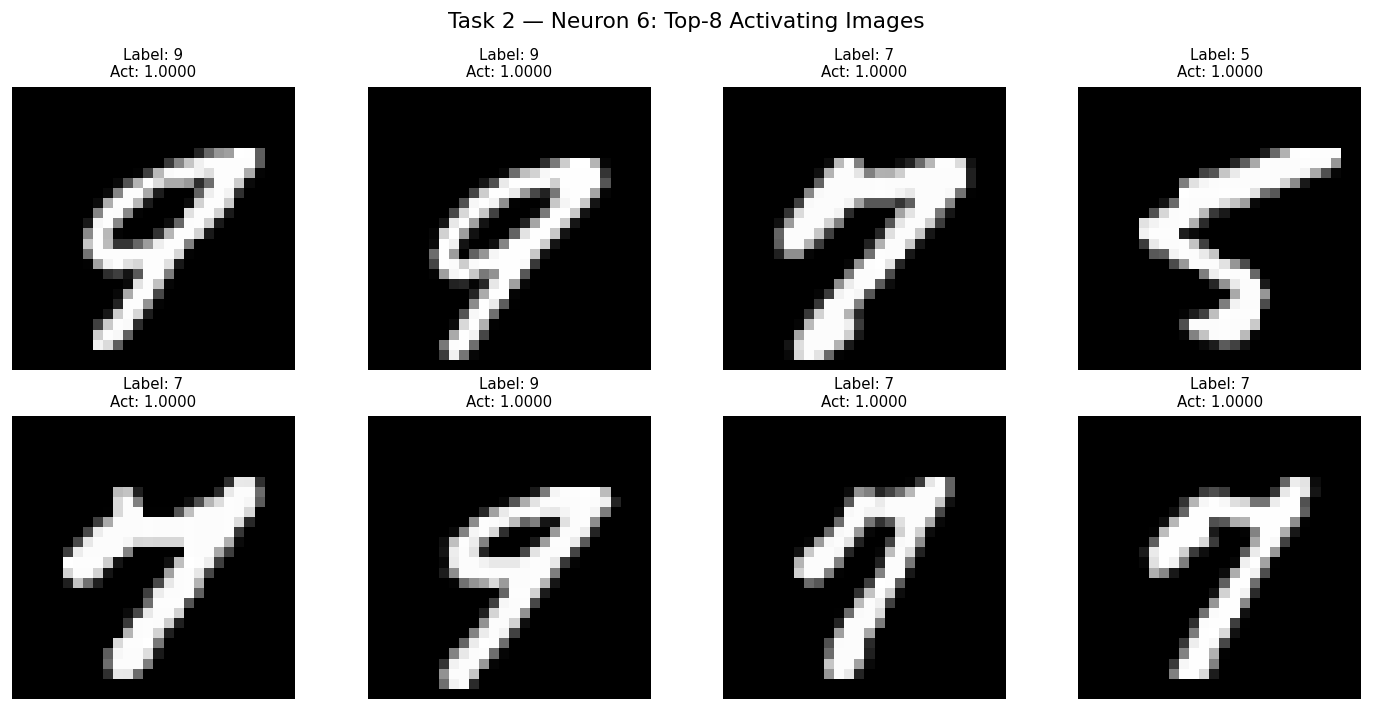
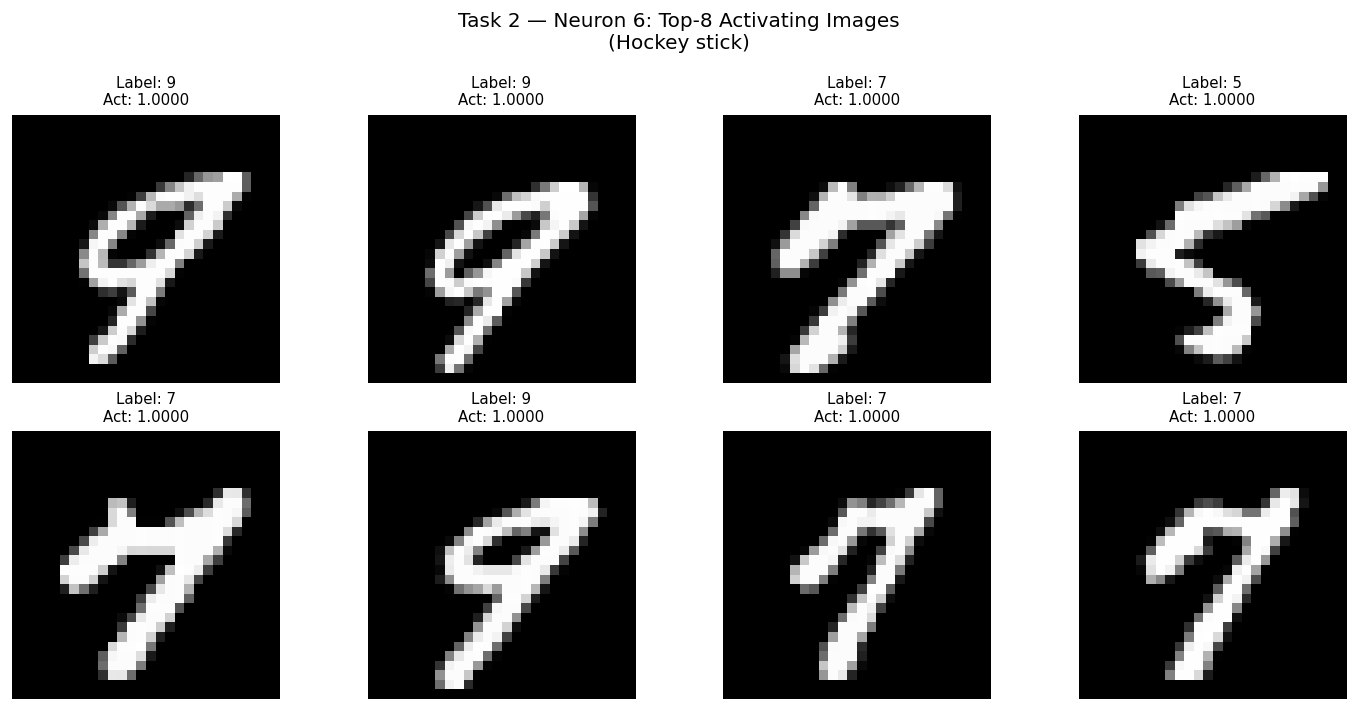
final changes

diff --git a/GRP11_2022A8PS0595G_2022A8PS0066G.py b/GRP11_2022A8PS0595G_2022A8PS0066G.py
@@ -1,23 +1,23 @@
 """
-GRP11_2022A8PS0595G.py
-══════════════════════════════════════════════════════════════════════
+GRP11_2022A8PS0595G_2022A8PS0066G.py
 Assignment 1 — Understanding Hidden Layer Representations (MNIST)
 BITS F312 Neural Networks
 
 Architecture : [784 → 20 → 10]
-Trained with : SGD, 30 epochs, mini-batch=10, eta=3.0
-Model loaded from: model.json (no retraining)
+Trained with stochastic gradient descent (SGD) -  30 epochs, mini-batch=10, eta=3.0
+Model loaded from: GRP11_2022A8PS0595G_2022A8PS0066G.json (no retraining)
 
-Usage:
-    python GRP11_2022A8PS0595G.py
 
-Requires in the same directory:
-    mnist_loader.py
-    model.json
+First get these files in the same folder (pre-requisites)
+    mnist_loader.py - (from NN deep learning repo)
+    GRP11_2022A8PS0595G_2022A8PS0066G.json      - (pretrained model weights)
     train-images.idx3-ubyte
     train-labels.idx1-ubyte
     t10k-images.idx3-ubyte
     t10k-labels.idx1-ubyte
+
+then run 
+python GRP11_2022A8PS0595G_2022A8PS0066G.py
 """
 
 import json
@@ -27,45 +27,39 @@ matplotlib.use('Agg')
 import matplotlib.pyplot as plt
 import mnist_loader
 
-# ══════════════════════════════════════════════════════════════════════
-# ▶▶  SET YOUR FAVORITE NEURON HERE (1 to 20)
-FAVORITE_NEURON = 14        # ← change this to whichever neuron you like
-# ══════════════════════════════════════════════════════════════════════
+favourite_nueron = 6       
 
-# Informal names for all 20 neurons (based on Task 1 + Task 2 analysis)
+
 NEURON_NAMES = {
-    1:  "Curved multi-stroke detector",
-    2:  "Vertical stroke detector",
-    3:  "Open arc / tall shape detector",
-    4:  "Closed oval loop detector",
-    5:  "Cross-junction detector",
-    6:  "Diagonal slash detector",
-    7:  "Round loop detector",
-    8:  "S-curve / swirl detector",
-    9:  "Seven detector (variant A)",
-    10: "Round + looping shape detector",
-    11: "Two detector",
-    12: "Double-arc detector",
-    13: "Bottom-loop + sweep detector",
-    14: "Seven detector (variant B)",
-    15: "Broad mixed-stroke detector",
-    16: "Closed oval detector",
-    17: "S/Z-shape detector",
-    18: "Six detector",
-    19: "Five detector",
-    20: "Slanted multi-curve detector",
+    1:  "Left legged",
+    2:  "Central line",
+    3:  "Bindhi",
+    4:  "Donut",
+    5:  "Square",
+    6:  "Hockey stick",
+    7:  "Thick donut",
+    8:  "Scramble",
+    9:  "Grandpa stick",
+    10: "Right legged",
+    11: "Captain Hook",
+    12: "The E",
+    13: "Hangman noose",
+    14: "Stroked 7",
+    15: "Equator",
+    16: "Black hole",
+    17: "Scrambled",
+    18: "Bottom loop",
+    19: "Seahorse",
+    20: "The Sun",
 }
 
 
-# ══════════════════════════════════════════════════════════════════════
-# Utilities
-# ══════════════════════════════════════════════════════════════════════
 
 def sigmoid(z):
     return 1.0 / (1.0 + np.exp(-z))
 
 
-def load_model(json_path="model.json"):
+def load_model(json_path="GRP11_2022A8PS0595G_2022A8PS0066G.json"):
     with open(json_path, "r") as f:
         model = json.load(f)
     weights = [np.array(w) for w in model["weights"]]
@@ -74,7 +68,6 @@ def load_model(json_path="model.json"):
 
 
 def get_hidden_activations(test_data, W1, b1):
-    """Returns activations (N,20), labels (N,), images list."""
     activations, labels, images = [], [], []
     for x, y in test_data:
         z1 = W1 @ x + b1
@@ -85,16 +78,13 @@ def get_hidden_activations(test_data, W1, b1):
     return np.array(activations), np.array(labels), images
 
 
-# ══════════════════════════════════════════════════════════════════════
-# Task 1 — Weight heatmaps
-# ══════════════════════════════════════════════════════════════════════
+# TASK 1 - Visualise each hidden neurons weight in HeatMap.
 
 class Task1:
-    """Visualise each hidden neuron's 784 weights as a 28×28 heatmap."""
+ 
 
     @staticmethod
     def run_all(W1, save_path="task1_heatmaps.png"):
-        """Plot all 20 neurons in a 4×5 grid and save."""
         fig, axes = plt.subplots(4, 5, figsize=(14, 11))
         fig.suptitle("Task 1 — Hidden Neuron Weight Heatmaps\n"
                      "(Red = excitatory, Blue = inhibitory)", fontsize=14, y=1.01)
@@ -112,8 +102,7 @@ class Task1:
 
     @staticmethod
     def run_single(W1, neuron_idx, save_path=None):
-        """Plot heatmap for one neuron (0-indexed internally)."""
-        j    = neuron_idx - 1           # convert 1-indexed → 0-indexed
+        j    = neuron_idx - 1           # change  1-indexed → 0-indexed if needed
         w_j  = W1[j].reshape(28, 28)
         vmax = np.max(np.abs(w_j))
 
@@ -131,22 +120,18 @@ class Task1:
         print(f"  [Task 1] Saved: {path}")
 
 
-# ══════════════════════════════════════════════════════════════════════
-# Task 2 — Top-8 activating images
-# ══════════════════════════════════════════════════════════════════════
+
+# Task 2 — Top-8 activating images.
 
 class Task2:
-    """Find and display the 8 images that most strongly activate each neuron."""
 
     @staticmethod
     def run_all(activations, labels, images):
-        """Save one 2×4 grid per neuron (20 files total)."""
         for j in range(activations.shape[1]):
             Task2._plot_neuron(j + 1, activations, labels, images)
 
     @staticmethod
     def run_single(neuron_idx, activations, labels, images, save_path=None):
-        """Plot top-8 grid for one neuron."""
         Task2._plot_neuron(neuron_idx, activations, labels, images, save_path)
 
     @staticmethod
@@ -174,16 +159,12 @@ class Task2:
         print(f"  [Task 2] Saved: {path}")
 
 
-# ══════════════════════════════════════════════════════════════════════
-# Task 3 — Activation distribution per digit class
-# ══════════════════════════════════════════════════════════════════════
+# Task 3 — Activation distribution per digit class.
 
 class Task3:
-    """Bar chart of average neuron activation for each digit class 0–9."""
 
     @staticmethod
     def run_all(activations, labels, save_path="task3_activation_distribution.png"):
-        """Save combined 4×5 figure for all 20 neurons."""
         digits = np.arange(10)
         fig, axes = plt.subplots(4, 5, figsize=(18, 13))
         fig.suptitle("Task 3 — Average Hidden Neuron Activation per Digit Class",
@@ -213,7 +194,6 @@ class Task3:
 
     @staticmethod
     def run_single(neuron_idx, activations, labels, save_path=None):
-        """Bar chart for one neuron."""
         j      = neuron_idx - 1
         digits = np.arange(10)
         avg    = np.array([activations[labels == d, j].mean() for d in digits])
@@ -241,44 +221,34 @@ class Task3:
         plt.close()
         print(f"  [Task 3] Saved: {path}")
 
+# main() — runs ONLY the favorite neuron. Our selected nueron is 6
 
-# ══════════════════════════════════════════════════════════════════════
-# main() — runs ONLY the favorite neuron, completes in < 10 seconds
-# ══════════════════════════════════════════════════════════════════════
 
 def main():
-    n = FAVORITE_NEURON
+    n = favourite_nueron
     print(f"\n{'='*55}")
     print(f"  Favorite Neuron : {n}  —  {NEURON_NAMES[n]}")
     print(f"{'='*55}\n")
 
-    # 1. Load model (no retraining)
-    print("Loading model from model.json ...")
-    weights, biases = load_model("model.json")
-    W1, W2 = weights
-    b1, b2 = biases
+    print("Loading model")
+    weights, biases = load_model("GRP11_2022A8PS0595G_2022A8PS0066G.json")
+    W1 = weights
+    b1 = biases
 
-    # 2. Load test data
-    print("Loading MNIST test data ...")
     _, _, test_data = mnist_loader.load_data_wrapper()
 
-    # 3. Compute hidden activations
-    print("Computing hidden layer activations ...")
     activations, labels, images = get_hidden_activations(test_data, W1, b1)
 
-    # 4. Task 1 — weight heatmap for favorite neuron
-    print(f"\n── Task 1: Weight heatmap for Neuron {n} ──")
+    print(f"\n─> Task 1: Weight heatmap for Neuron {n} ──")
     Task1.run_single(W1, n)
 
-    # 5. Task 2 — top-8 activating images for favorite neuron
-    print(f"\n── Task 2: Top-8 activating images for Neuron {n} ──")
+    print(f"\n─> Task 2: Top-8 activating images for Neuron {n} ──")
     Task2.run_single(n, activations, labels, images)
 
-    # 6. Task 3 — activation bar chart for favorite neuron
-    print(f"\n── Task 3: Activation distribution for Neuron {n} ──")
+    print(f"\n─> Task 3: Activation distribution for Neuron {n} ──")
     Task3.run_single(n, activations, labels)
 
-    print(f"\n✓ Done! Output files:")
+    print(f"\n Output files:")
     print(f"  task1_neuron_{n:02d}.png")
     print(f"  task2_neuron_{n:02d}.png")
     print(f"  task3_neuron_{n:02d}.png")
